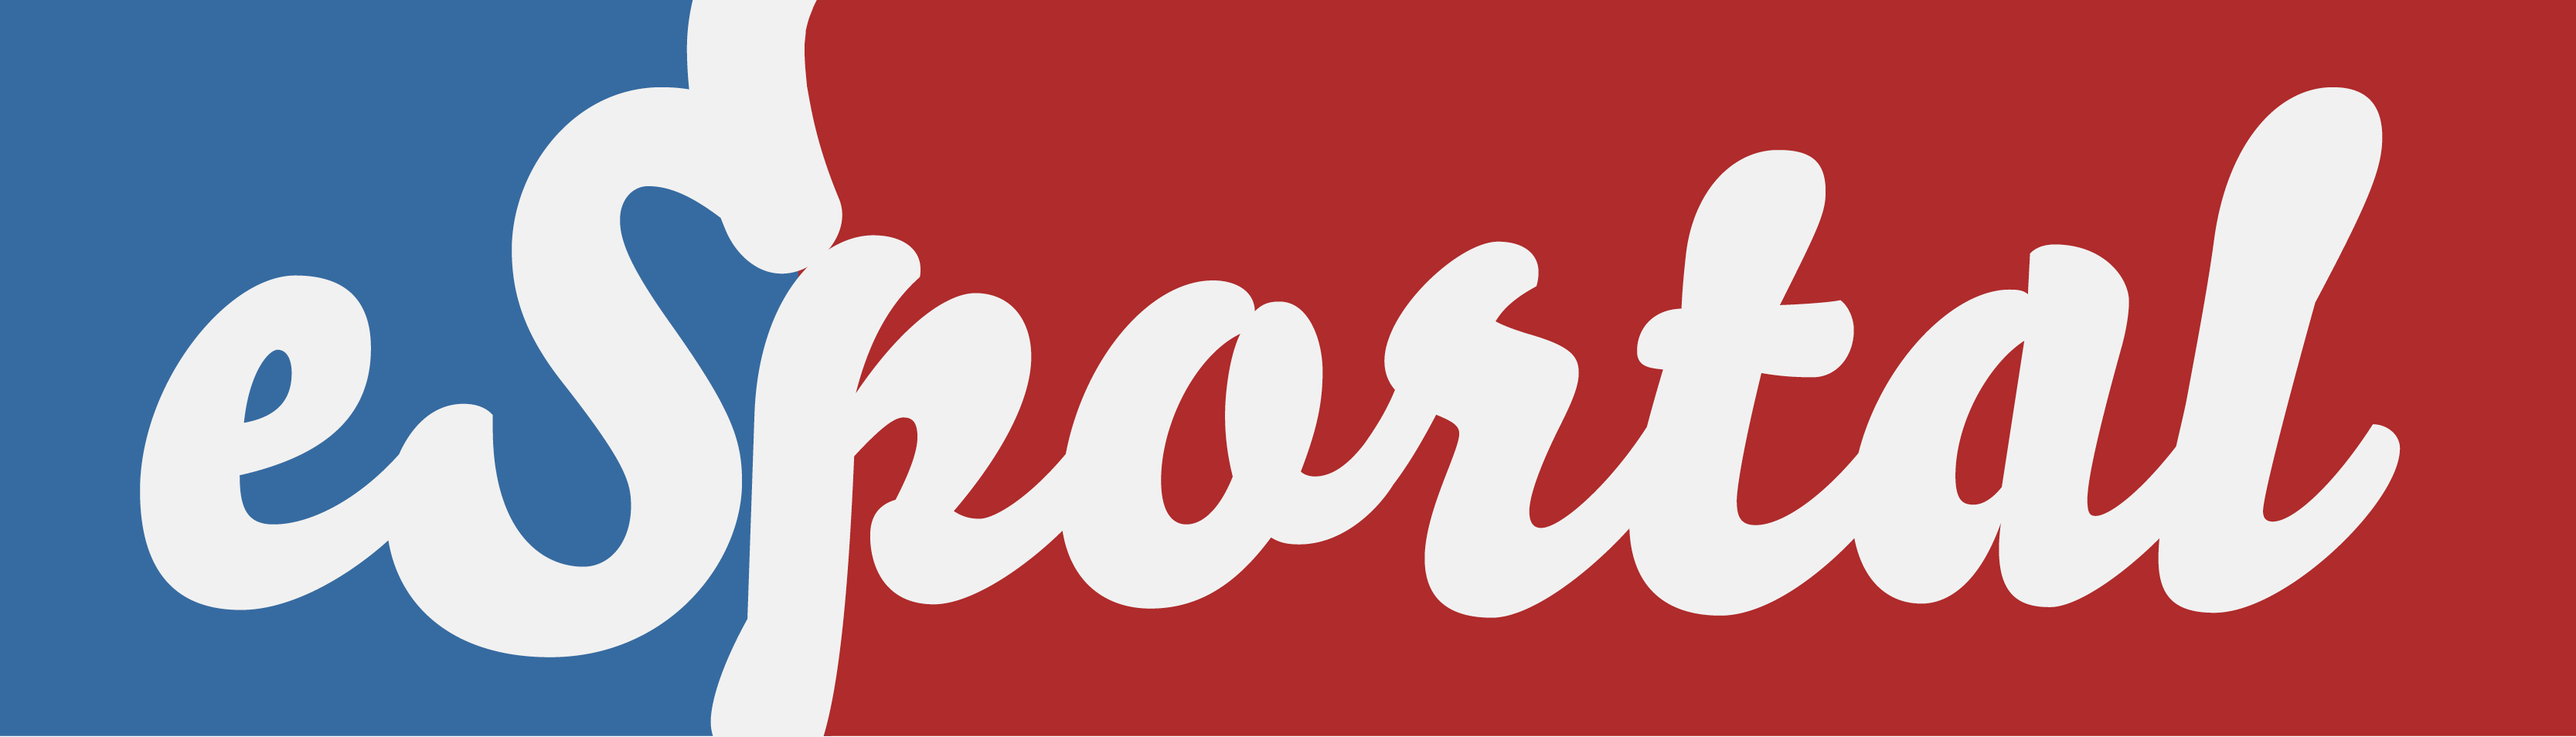
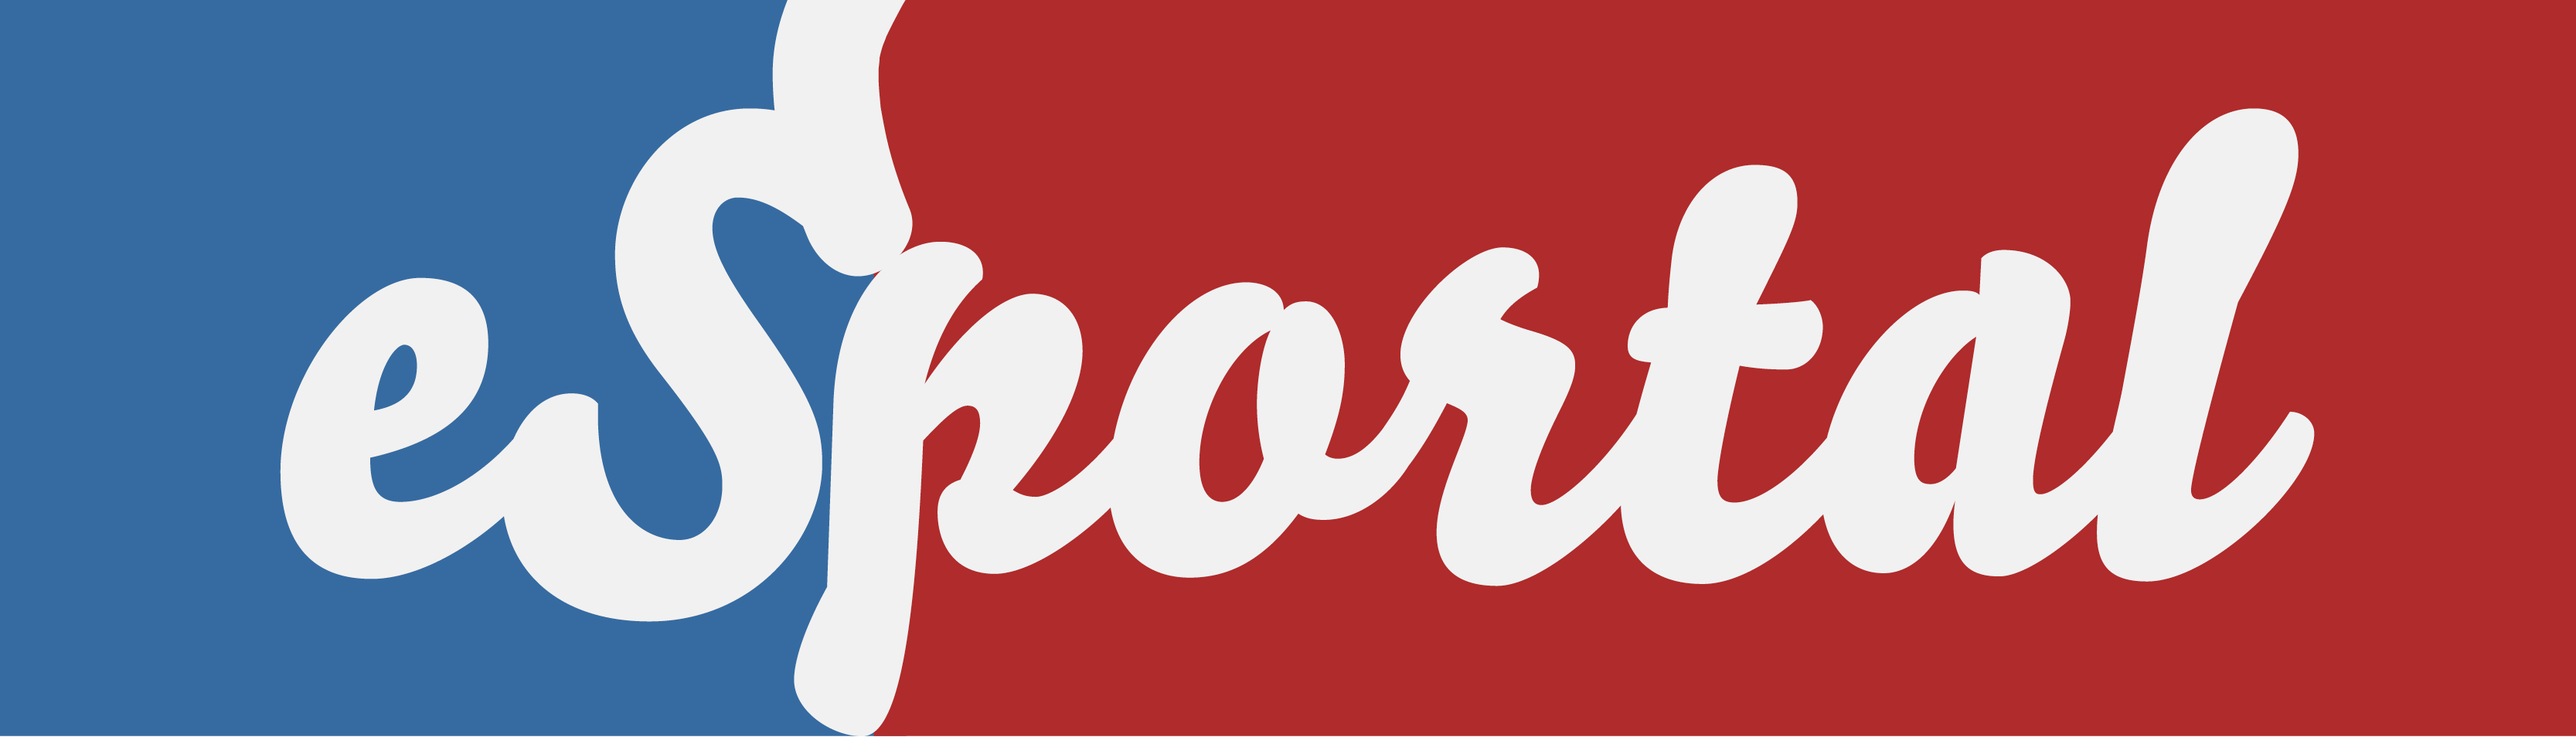
Visual Fix WIP

Changed region(s): [[0.0312, 0.0, 0.9361, 1.0], [0.5617, 0.3344, 0.5929, 0.3648]]

diff --git a/app/assets/javascripts/timer.js b/app/assets/javascripts/timer.js
@@ -1,54 +1,52 @@
-$(document).ready(function(){
-  console.log(deadline)
-  getTimeRemaining(deadline);
-  initializeClock('clockdiv', deadline);
-});
+// $(document).ready(function(){
+//   console.log(deadline)
+//   getTimeRemaining(deadline);
+//   initializeClock('clockdiv', deadline);
+// });
 
-var deadline = deadline;
+// var deadline = deadline;
 
-function getTimeRemaining(endtime){
-  var t = Date.parse(endtime) - Date.parse(new Date());
-  var seconds = Math.floor( (t/1000) % 60 );
-  var minutes = Math.floor( (t/1000/60) % 60 );
-  var hours = Math.floor( (t/(1000*60*60)) % 24 );
-  var days = Math.floor( t/(1000*60*60*24) );
+// function getTimeRemaining(endtime){
+//   var t = Date.parse(endtime) - Date.parse(new Date());
+//   var seconds = Math.floor( (t/1000) % 60 );
+//   var minutes = Math.floor( (t/1000/60) % 60 );
+//   var hours = Math.floor( (t/(1000*60*60)) % 24 );
+//   var days = Math.floor( t/(1000*60*60*24) );
 
-  if (days > -1 ) {
-      return {
-      'total': t,
-      'days': days,
-      'hours': hours,
-      'minutes': minutes,
-      'seconds': seconds
-    };
-  }
+//   if (days > -1 ) {
+//       return {
+//       'total': t,
+//       'days': days,
+//       'hours': hours,
+//       'minutes': minutes,
+//       'seconds': seconds
+//     };
+//   }
+// }
 
-
-}
-
-function initializeClock(id, endtime){
-  var clock = document.getElementById(id);
-  var daysSpan = clock.querySelector('.days');
-  var hoursSpan = clock.querySelector('.hours');
-  var minutesSpan = clock.querySelector('.minutes');
-  var secondsSpan = clock.querySelector('.seconds');
+// function initializeClock(id, endtime){
+//   var clock = document.getElementById(id);
+//   var daysSpan = clock.querySelector('.days');
+//   var hoursSpan = clock.querySelector('.hours');
+//   var minutesSpan = clock.querySelector('.minutes');
+//   var secondsSpan = clock.querySelector('.seconds');
 
 
-  function updateClock(){
-    var t = getTimeRemaining(endtime);
+//   function updateClock(){
+//     var t = getTimeRemaining(endtime);
 
-    daysSpan.innerHTML = ('0' + t.days).slice(-2) + ' days';
-    hoursSpan.innerHTML = ('0' + t.hours).slice(-2) + ':';
-    minutesSpan.innerHTML = ('0' + t.minutes).slice(-2) + ':';
-    secondsSpan.innerHTML = ('0' + t.seconds).slice(-2) ;
+//     daysSpan.innerHTML = ('0' + t.days).slice(-2) + ' days';
+//     hoursSpan.innerHTML = ('0' + t.hours).slice(-2) + ':';
+//     minutesSpan.innerHTML = ('0' + t.minutes).slice(-2) + ':';
+//     secondsSpan.innerHTML = ('0' + t.seconds).slice(-2) ;
 
-    if(t.total<=0){
-      clearInterval(timeinterval);
-    }
-  }
+//     if(t.total<=0){
+//       clearInterval(timeinterval);
+//     }
+//   }
 
-updateClock(); // run function once at first to avoid delay
-var timeinterval = setInterval(updateClock,1000);
+// updateClock(); // run function once at first to avoid delay
+// var timeinterval = setInterval(updateClock,1000);
 
-}
+// }
 

diff --git a/app/assets/stylesheets/application.sass b/app/assets/stylesheets/application.sass
@@ -16,6 +16,7 @@ $danger_color   : #c0392b
 $colDefault     : #e3e3e3
 $colHighlight   : #ffffff
 $dropDown       : false
+$coolblue       : #356AA0
 
 @import url(https://fonts.googleapis.com/css?family=Open+Sans:400,300,300italic,400italic,600,600italic,700,700italic,800,800italic)
 
@@ -34,7 +35,7 @@ a
 
 a:hover
   @extend a
-  color: black
+  color: #356AA0
   font-weight: italic
 
 .appzicon
@@ -43,6 +44,9 @@ a:hover
 .blue
   background-color: blue
   height: 40px
+
+.coolblue
+  color: $coolblue
 
 .grey
   color: grey
@@ -71,6 +75,8 @@ a:hover
   -webkit-box-shadow: 0 10px 6px -6px #777
   -moz-box-shadow: 0 10px 6px -6px #777
   box-shadow: 0 10px 6px -6px #777
+  overflow-x: hidden
+  overflow-y: hidden
 
 .dailyinfo
   @include background-opacity($warning_color, $opacity: 0.35)
@@ -174,10 +180,7 @@ body
     .icon-bar
       background-color: $colDefault
 
-  .navbar-collapse,
-
-  .navbar-form
-    border-color: $colDefault
+  .navbar-collapse
 
   .navbar-link
     color: $colDefault
@@ -479,9 +482,9 @@ form
 
 
 section.container-fluid
-  background: -webkit-gradient(left top, right top, color-stop(0%, rgba(53,106,160,1)), color-stop(12%, rgba(53,106,160,1)), color-stop(13%, rgba(176,43,44,1)), color-stop(24%, rgba(176,43,44,1)), color-stop(100%, rgba(176,43,44,1)))
-  background: -webkit-linear-gradient(left, rgba(53,106,160,1) 0%, rgba(53,106,160,1) 12%, rgba(176,43,44,1) 13%, rgba(176,43,44,1) 24%, rgba(176,43,44,1) 100%)
-  background: -o-linear-gradient(left, rgba(53,106,160,1) 0%, rgba(53,106,160,1) 12%, rgba(176,43,44,1) 13%, rgba(176,43,44,1) 24%, rgba(176,43,44,1) 100%)
-  background: -ms-linear-gradient(left, rgba(53,106,160,1) 0%, rgba(53,106,160,1) 12%, rgba(176,43,44,1) 13%, rgba(176,43,44,1) 24%, rgba(176,43,44,1) 100%)
-  background: linear-gradient(to right, rgba(53,106,160,1) 0%, rgba(53,106,160,1) 12%, rgba(176,43,44,1) 13%, rgba(176,43,44,1) 24%, rgba(176,43,44,1) 100%)
+  background: -webkit-gradient(left top, right top, color-stop(0%, rgba(53,106,160,1)), color-stop(18.5%, rgba(53,106,160,1)), color-stop(18.5%, rgba(176,43,44,1)), color-stop(24%, rgba(176,43,44,1)), color-stop(100%, rgba(176,43,44,1)))
+  background: -webkit-linear-gradient(left, rgba(53,106,160,1) 0%, rgba(53,106,160,1) 18.5%, rgba(176,43,44,1) 18.5%, rgba(176,43,44,1) 24%, rgba(176,43,44,1) 100%)
+  background: -o-linear-gradient(left, rgba(53,106,160,1) 0%, rgba(53,106,160,1) 18.5%, rgba(176,43,44,1) 18.5%, rgba(176,43,44,1) 24%, rgba(176,43,44,1) 100%)
+  background: -ms-linear-gradient(left, rgba(53,106,160,1) 0%, rgba(53,106,160,1) 18.5%, rgba(176,43,44,1) 18.5%, rgba(176,43,44,1) 24%, rgba(176,43,44,1) 100%)
+  background: linear-gradient(to right, rgba(53,106,160,1) 0%, rgba(53,106,160,1) 18.5%, rgba(176,43,44,1) 18.5%, rgba(176,43,44,1) 24%, rgba(176,43,44,1) 100%)
   filter: progid:DXImageTransform.Microsoft.gradient( startColorstr='#356aa0', endColorstr='#b02b2c', GradientType=1 )

diff --git a/app/assets/stylesheets/bootstrap.css b/app/assets/stylesheets/bootstrap.css
@@ -4166,6 +4166,7 @@ select[multiple].input-group-sm > .input-group-btn > .btn {
   }
 }
 .navbar-collapse {
+  text-align: left;
   padding-right: 15px;
   padding-left: 15px;
   overflow-x: visible;
@@ -4259,7 +4260,7 @@ select[multiple].input-group-sm > .input-group-btn > .btn {
 }
 .navbar-brand {
   float: left;
-  height: 55px;
+  height: 54px;
   padding: 15px 15px;
   font-size: 18px;
   line-height: 20px;
@@ -4525,7 +4526,7 @@ select[multiple].input-group-sm > .input-group-btn > .btn {
 }
 .navbar-default .navbar-collapse,
 .navbar-default .navbar-form {
-  border-color: #e7e7e7;
+  /*border-color: #e7e7e7;*/
 }
 .navbar-default .navbar-nav > .open > a,
 .navbar-default .navbar-nav > .open > a:hover,
